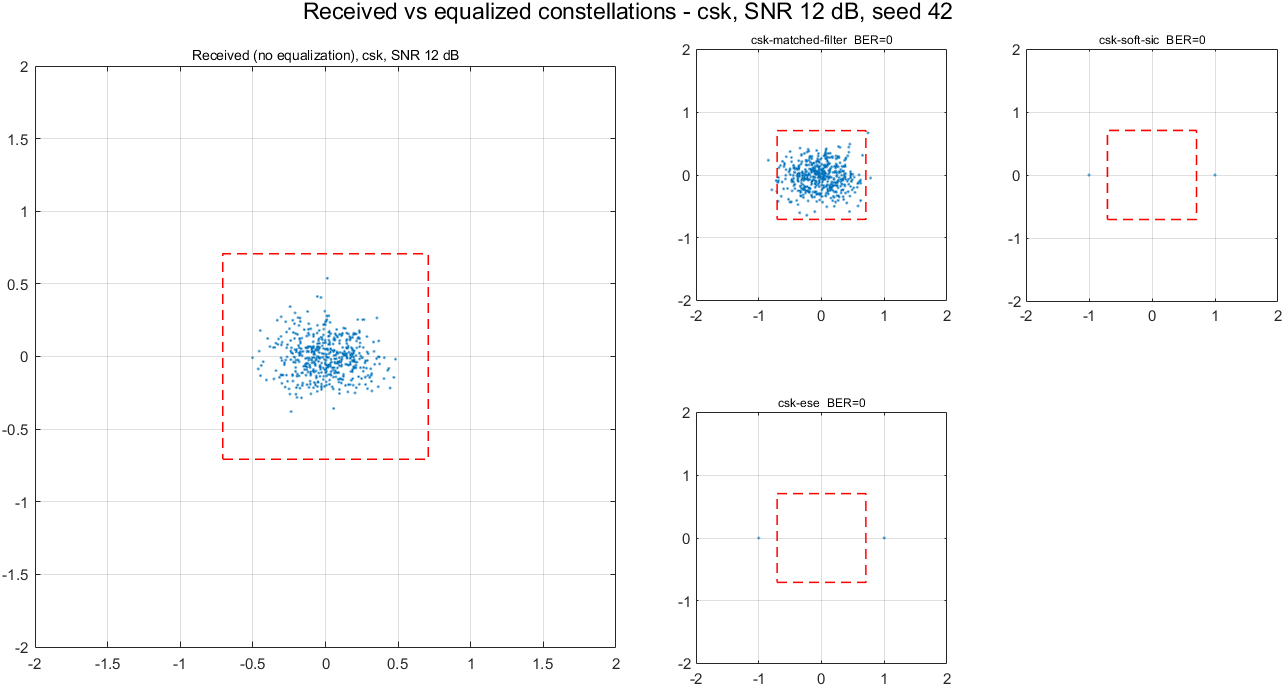
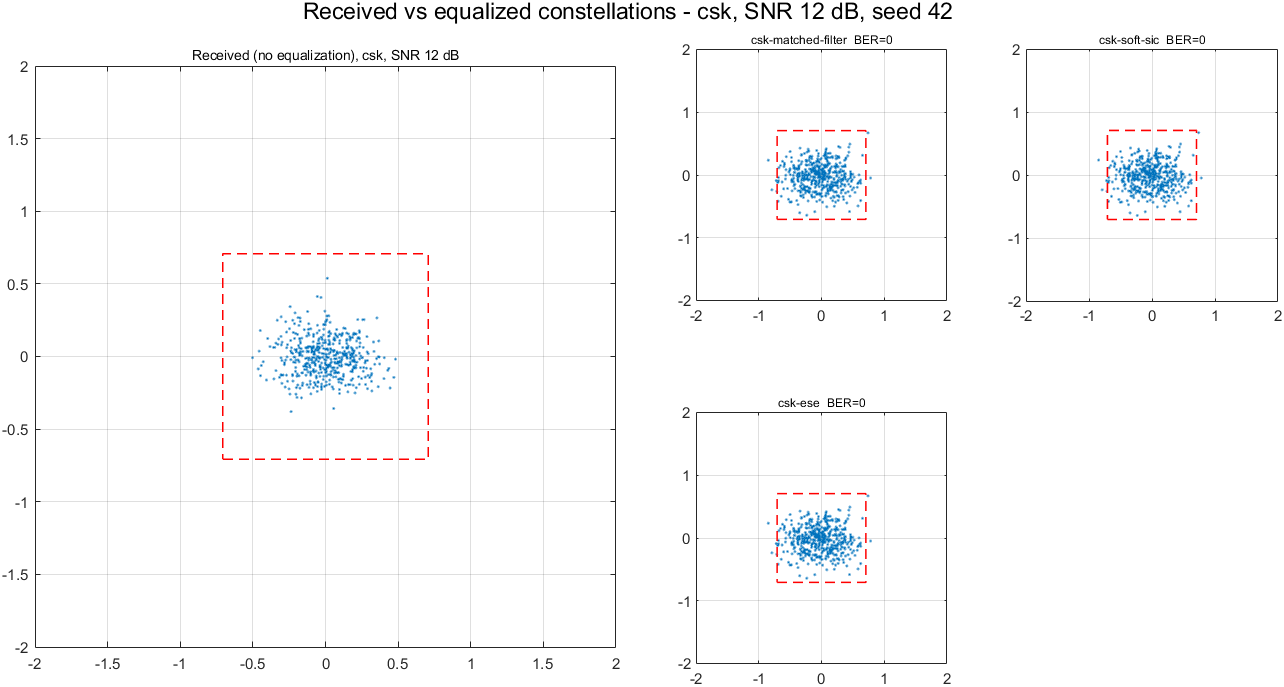
fix: csk-soft-sic and csk-ese soft chip constellations
- Both modules now report the circular matched-filter soft chips as
  estimates (consistent with csk_matched_filter) instead of the hard
  decisions, so their comparison cells show the soft spreading-chip
  cloud (459 unique values) rather than two isolated points.

Regression: 61/61 unit tests.

Changed region(s): [[0.5919, 0.7336, 0.6854, 0.8253], [0.8411, 0.214, 0.9346, 0.3057]]

diff --git a/papers/modules/+scfde/+equalizers/csk_ese.m b/papers/modules/+scfde/+equalizers/csk_ese.m
@@ -41,7 +41,12 @@ for symbol = 1:symbols
         book(mfIndices(symbol), :);
 end
 infoIndices = squeeze(outerDecision(end, :, 1)).';
+% Soft chip output: circular matched filter of the received chips
+% with the channel (consistent with csk_matched_filter), so the
+% constellation shows the soft spreading-chip estimates.
+softChips = ifft(conj(fft(channel.impulse, numel(channel.received))) .* ...
+    fft(channel.received));
 receiver = scfde.equalizers.pack_equalizer("CSK-IDMA-ESE", "csk-ese", ...
-    decisions, zeros(size(decisions)), decisions, ...
+    decisions, zeros(size(decisions)), softChips, ...
     struct("indices", mfIndices, "infoIndices", infoIndices));
 end

diff --git a/papers/modules/+scfde/+equalizers/csk_soft_sic.m b/papers/modules/+scfde/+equalizers/csk_soft_sic.m
@@ -25,7 +25,12 @@ for symbol = 1:symbols
     decisions((symbol - 1) * codeLength + (1:codeLength)) = ...
         book(detected(symbol), :);
 end
+% Soft chip output: circular matched filter of the received chips
+% with the channel (consistent with csk_matched_filter), so the
+% constellation shows the soft spreading-chip estimates.
+softChips = ifft(conj(fft(channel.impulse, numel(channel.received))) .* ...
+    fft(channel.received));
 receiver = scfde.equalizers.pack_equalizer("CSK-SoftSIC", "csk-soft-sic", ...
-    decisions, zeros(size(decisions)), decisions, ...
+    decisions, zeros(size(decisions)), softChips, ...
     struct("history", decisionHistory));
 end
